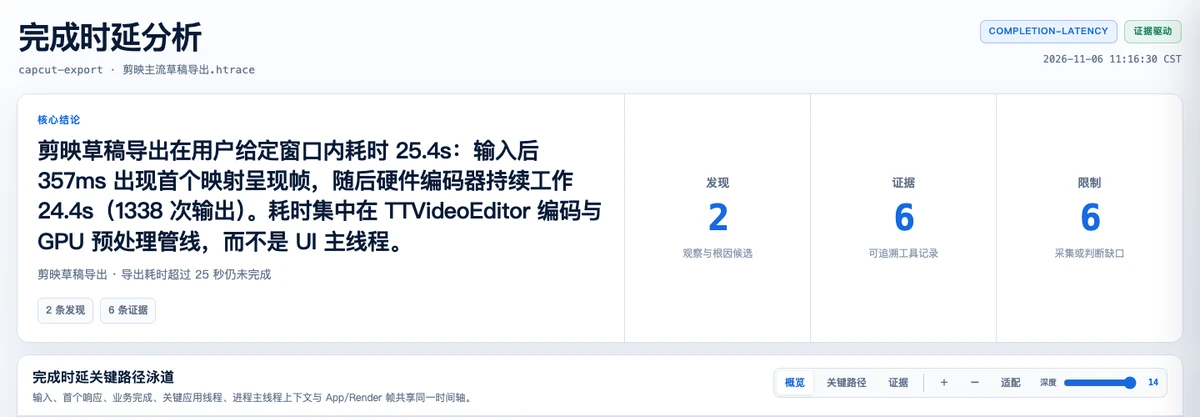
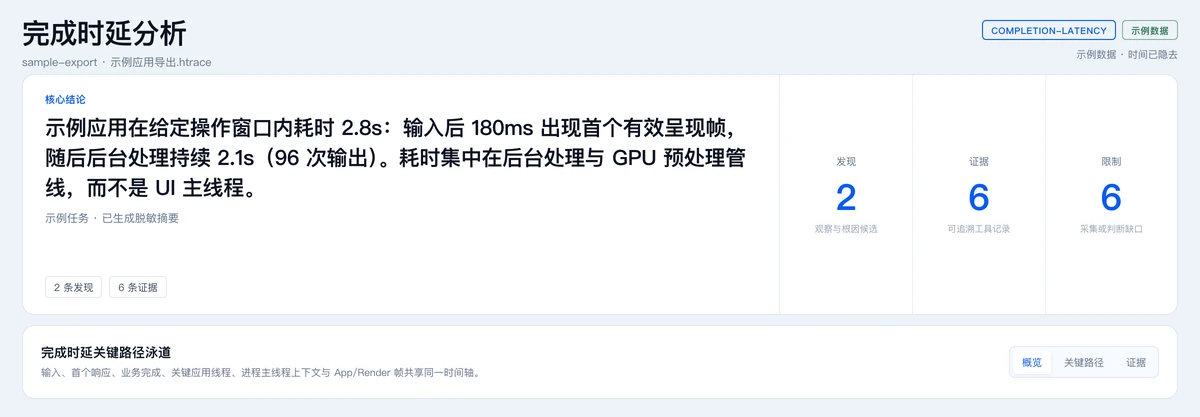
Sanitize report preview image

diff --git a/index.html b/index.html
@@ -314,11 +314,11 @@ begin_analysis(
             </ul>
           </div>
           <figure class="report-figure">
-            <a href="assets/img/report-preview.webp" target="_blank" rel="noopener noreferrer"><img src="assets/img/report-preview.webp" alt="DitingAgent 完成时延分析报告截图 / Screenshot of the DitingAgent completion-latency report" width="1200" height="417"></a>
+            <a href="assets/img/report-preview.webp?v=20261106-1" target="_blank" rel="noopener noreferrer"><img src="assets/img/report-preview.webp?v=20261106-1" alt="DitingAgent 完成时延分析报告脱敏示例 / Anonymized example of the DitingAgent completion-latency report" width="1200" height="417"></a>
             <figcaption>
-              <span><span class="lang-zh" lang="zh-CN">实际输出示例：完成时延报告摘要</span><span class="lang-en" lang="en">Actual output: completion-latency report summary</span></span>
-              <a href="assets/img/report-preview.webp" target="_blank" rel="noopener noreferrer">
-              <span class="lang-zh" lang="zh-CN">查看原图 ↗</span><span class="lang-en" lang="en">Open image ↗</span>
+              <span><span class="lang-zh" lang="zh-CN">脱敏示例：完成时延报告摘要</span><span class="lang-en" lang="en">Anonymized example: completion-latency report summary</span></span>
+              <a href="assets/img/report-preview.webp?v=20261106-1" target="_blank" rel="noopener noreferrer">
+              <span class="lang-zh" lang="zh-CN">查看示例图 ↗</span><span class="lang-en" lang="en">Open example ↗</span>
             </a>
             </figcaption>
           </figure>
